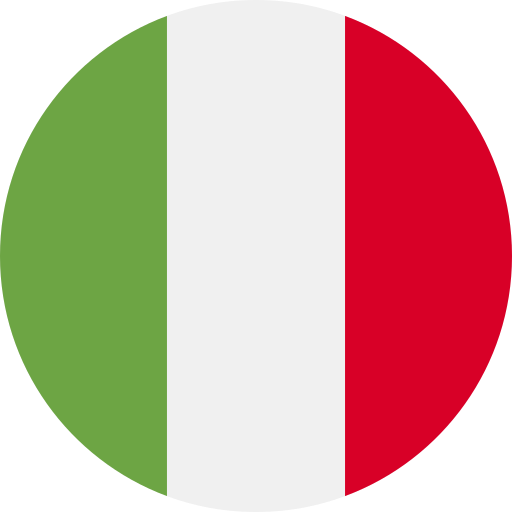
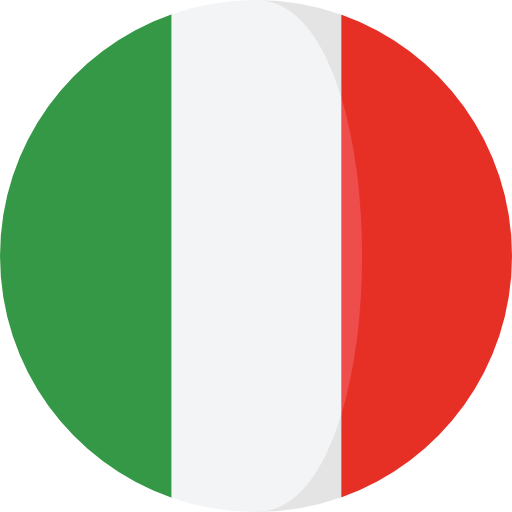
quinielas jugadores elegidos + puntos

diff --git a/public/style.css b/public/style.css
@@ -245,7 +245,7 @@ body::-webkit-scrollbar {
     width: 97%;
     border: none;
     height: 100px;
-    background-image: linear-gradient(30deg, rgb(0, 202, 0), rgb(0, 88, 10));
+    background-image: linear-gradient(to right,rgb(0, 141, 17),rgb(0, 202, 0), rgb(0, 141, 17 ));
     color: white;
     transition: 0.2s ease-in-out;
     padding: 5px;
@@ -305,6 +305,7 @@ body::-webkit-scrollbar {
     background-image: linear-gradient(10deg, rgb(30, 30, 30), rgb(70, 70, 70));
     padding: 10px;
     border-radius: 20px;
+    width: 85%;
 }
 
 .land-partidos-container{
@@ -318,6 +319,9 @@ body::-webkit-scrollbar {
     text-align: center;
     font-weight: bold;
     border: 2px solid #282828;
+    max-width: 90%;
+    justify-items: center;
+    justify-content: center;
 }
 
 .land-team{
@@ -602,7 +606,6 @@ input:-webkit-autofill:active, input:-webkit-autofill:focus{
 }
 
 #jugadores{
-    border-bottom: 2px solid rgb(146, 146, 146);
     padding-bottom: 20px;
 }
 
@@ -1263,8 +1266,8 @@ input[type=number]:focus{
     text-decoration: none;
     margin-top: 10px;
     color: white;
-    border: 3px solid rgb(0, 6, 88);
-    background-color: rgb(6, 0, 189);
+    background: linear-gradient(#0023c5, #000595, #0a1bff);
+    border: solid 2px #919191;
     padding: 9px;
     border-radius: 10px;
     width: 100%;
@@ -1277,13 +1280,19 @@ input[type=number]:focus{
     margin-top: 20px;
     text-decoration: none;
     color: white;
-    background-color: rgb(174, 0, 0);
+    background:linear-gradient(#515151, #202020, #404040);
     padding: 9px;
     border-radius: 20px;
     font-weight: bold;
     box-shadow: 0 5px 10px 5px black;
-    border: 3px solid red;
+    width: 40%;
+    text-align: center;
 }
+
+.go-back:hover{
+    transform: scale(1.03);
+}
+
 .go-back:active, .links-quinielas a:active{
     transform: scale(1.05);
 }
@@ -1387,6 +1396,109 @@ input[type=number]:focus{
 
 .pd-10{
     padding: 10px;
+}
+
+.jugadores-title{
+    font-weight: bold;
+    color: white;
+    font-size: 28px;
+}
+
+.jugador-card{
+    margin-top: 30px;
+    border-radius: 20px;
+    width: 85%;
+    max-width: 340px;
+    min-width: 320px;
+    padding: 2px;
+    background-color: rgb(153, 153, 153);
+}
+
+.jugador-header{
+    padding: 15px 0;
+    background-color: #f2f2f2;
+    border-top-left-radius: 20px;
+    border-top-right-radius: 20px;
+    font-weight: bold;
+    text-align: center;
+    color: rgb(0, 17, 128);
+    display: flex;
+    align-items: center;
+    justify-content: space-evenly;
+}
+
+.label{
+    display: flex;
+    font-size: 14px;
+    margin-left: 10px;
+    color: rgba(255, 255, 255, 0.7);
+    align-items: center;
+}
+
+.label img{
+    margin-right: 10px;
+}
+
+.valor{
+    font-size:16px;
+    font-weight: bold;
+    text-align: center;
+}
+
+.jugador-item{
+    display: grid;
+    align-items: center;
+    grid-template-columns: 35% 65%;
+    width: 100%;
+    padding: 15px 0;
+}
+
+.white-line-divider{
+    height: 1px;
+    transform: scaleY(0.5);
+    width: 90%;
+    background: linear-gradient(
+        to right,
+        rgba(255, 255, 255, 0.1) 0%,
+        rgba(255, 255, 255, 0.4) 20%,
+        rgba(255, 255, 255, 0.8) 50%,
+        rgba(255, 255, 255, 0.4) 80%,
+        rgba(255, 255, 255, 0.1) 100%
+        );
+}
+
+.jugador-body{
+    display: grid;
+    align-items: center;
+    justify-content: stretch;
+    justify-items: center;
+    width: 100%;
+    background: linear-gradient(rgb(0, 1, 63), rgb(0, 2, 124), rgb(0, 1, 63));
+}
+
+.jugador-puntos{
+    font-weight: bold;
+    font-size: 20px;
+    text-align: center;
+    padding: 5px 0;
+    
+}
+
+.bg-green{
+    background: linear-gradient(to right, rgb(0, 54, 0),rgb(0, 157, 0),rgb(0, 54, 0));
+}
+
+.bg-not-defined{
+    background: linear-gradient(to right, rgb(60, 60, 60),rgb(120, 120, 120),rgb(60, 60, 60));
+}
+
+.bg-red{
+    background: linear-gradient(to right, rgb(54, 0, 0),rgb(157, 0, 0),rgb(54, 0, 0));
+}
+
+.bottom-borders-20{
+    border-bottom-left-radius: 20px;
+    border-bottom-right-radius: 20px;
 }
 
 @media only screen and (max-width: 600px) {

diff --git a/controllers/quinielas.js b/controllers/quinielas.js
@@ -59,9 +59,58 @@ exports.showQuiniela = (req, res) => {
 }
 
 exports.showJugadoresElegidos = (req, res) =>{
-    var jugadores = "Cr7";
+    var puntos = {
+        "PUNTOS_MAX_GOLEADOR":puntos_por_fase.PUNTOS_MAX_GOLEADOR, 
+        "PUNTOS_MAX_ASISTIDOR":puntos_por_fase.PUNTOS_MAX_ASISTIDOR,
+        "PUNTOS_MEJOR_JUGADOR":puntos_por_fase.PUNTOS_MEJOR_JUGADOR,
+        "PUNTOS_MEJOR_PORTERO":puntos_por_fase.PUNTOS_MEJOR_PORTERO};
+    const user_id = req.session.user.id;
+    let sql = ` SELECT
+                    IFNULL(mg.name,'Por elegir') AS MAX_GOLEADOR,
+                    IFNULL(ma.name,'Por elegir') AS MAX_ASISTIDOR,
+                    IFNULL(mj.name,'Por elegir') AS MEJOR_JUGADOR,
+                    IFNULL(mp.name,'Por elegir') AS MEJOR_PORTERO,
 
-    return res.render('quinielas',{jugadores:jugadores});
+                    IFNULL(mg2.name,'Pendiente') AS GOLEADOR_REAL,
+                    IFNULL(ma2.name,'Pendiente') AS ASISTIDOR_REAL,
+                    IFNULL(mj2.name,'Pendiente') AS JUGADOR_REAL,
+                    IFNULL(mp2.name,'Pendiente') AS PORTERO_REAL
+
+                FROM (SELECT 1) base
+
+
+                LEFT JOIN selected_players sp 
+                    ON sp.user_id = ?
+
+                LEFT JOIN players mg ON sp.maximo_goleador = mg.id
+                LEFT JOIN players ma ON sp.maximo_asistidor = ma.id
+                LEFT JOIN players mj ON sp.mejor_jugador = mj.id
+                LEFT JOIN players mp ON sp.mejor_portero = mp.id
+
+
+                LEFT JOIN players_awarded pa_g 
+                    ON pa_g.titulo = 'MAX_GOLEADOR'
+                LEFT JOIN players_awarded pa_a 
+                    ON pa_a.titulo = 'MAX_ASISTIDOR'
+                LEFT JOIN players_awarded pa_j 
+                    ON pa_j.titulo = 'MEJOR_JUGADOR'
+                LEFT JOIN players_awarded pa_p 
+                    ON pa_p.titulo = 'MEJOR_PORTERO'
+
+                LEFT JOIN players mg2 ON pa_g.player_id = mg2.id
+                LEFT JOIN players ma2 ON pa_a.player_id = ma2.id
+                LEFT JOIN players mj2 ON pa_j.player_id = mj2.id
+                LEFT JOIN players mp2 ON pa_p.player_id = mp2.id;`;
+    db.query(sql,[user_id], (error,jugadores)=>{
+        if(error){
+            console.log(error);
+            return res.render("error");
+        }
+        return res.render('quinielas',{jugadores:jugadores[0], puntos: puntos});
+    });
+
+
+    
 }
 
 function calcularPuntos(quiniela){

diff --git a/routes/admin.js b/routes/admin.js
@@ -5,7 +5,7 @@ const admin = require("../controllers/admin")
 
 function requireAdmin(req, res, next) {
     
-    if(!req.session.user || req.session.user.username != "Yoyo"){
+    if(!req.session.user || req.session.user.username != "yoyo"){
         return res.redirect('/');   //Negar el paso a la pagina admin
     }
     next();